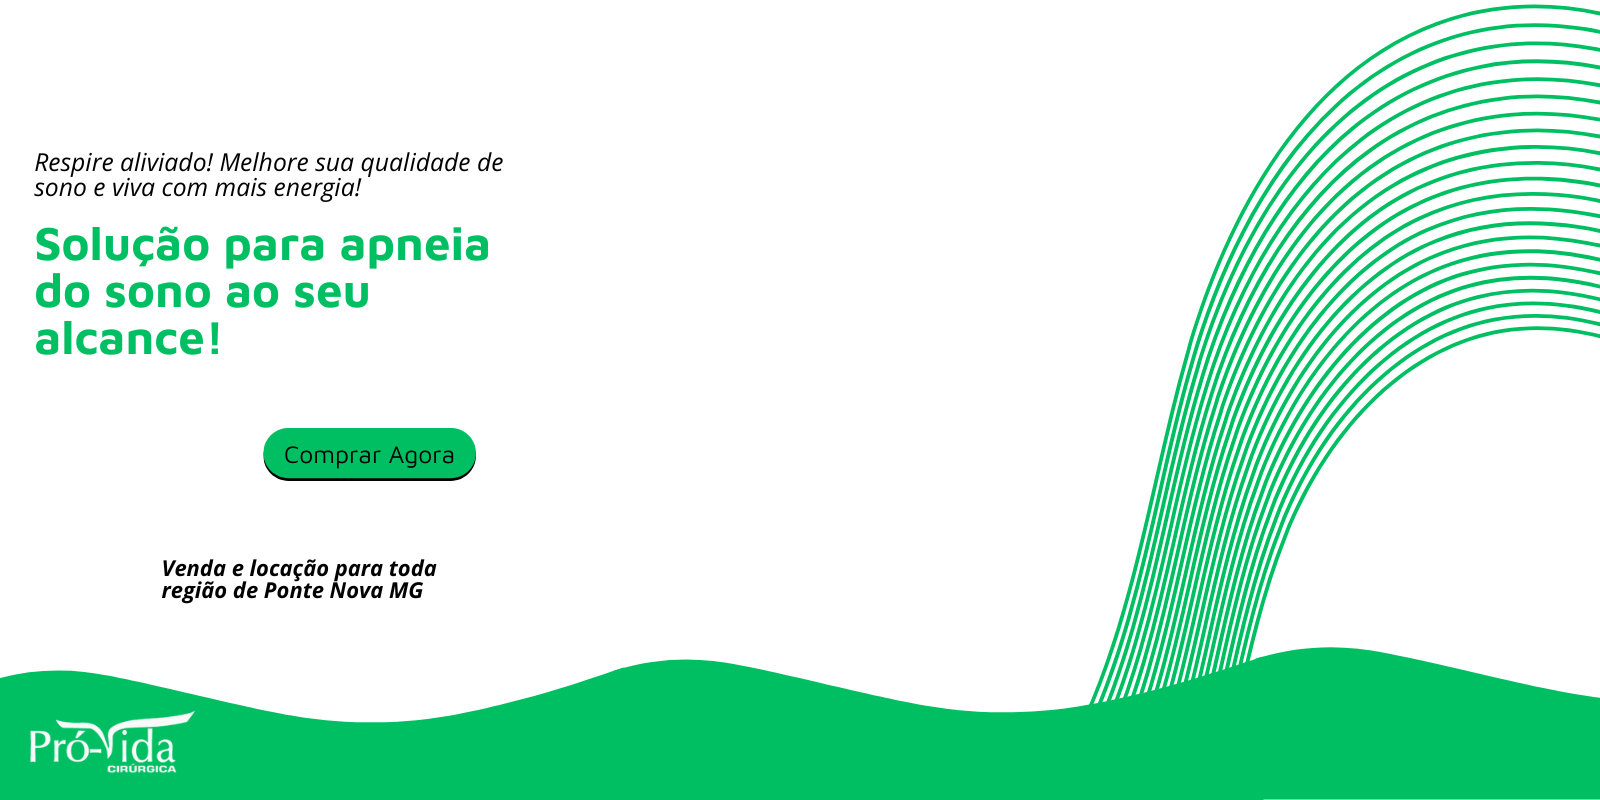
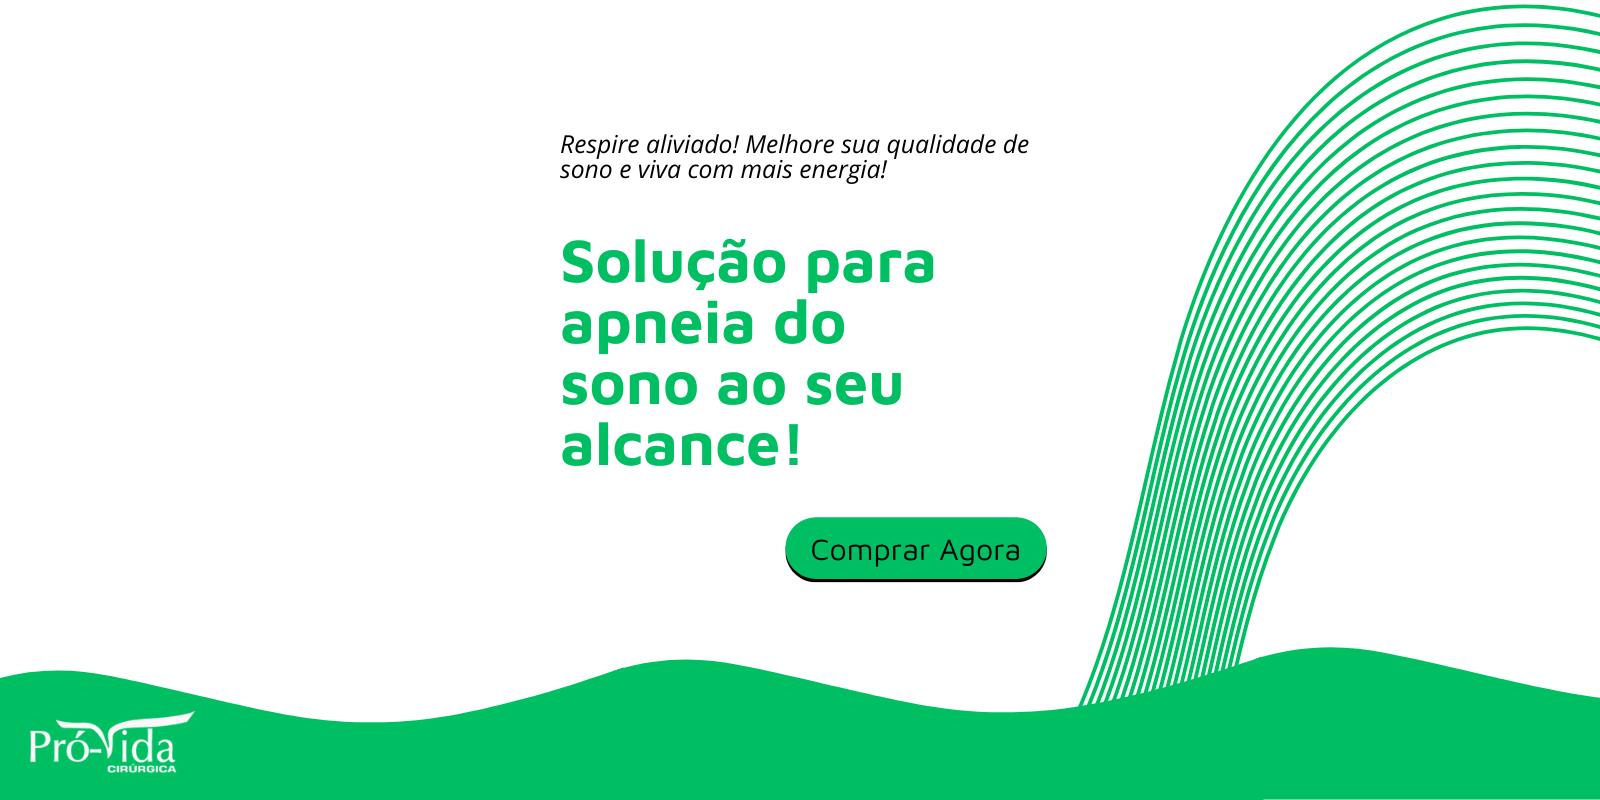
Update

diff --git a/front-end/src/index.css b/front-end/src/index.css
@@ -22,7 +22,7 @@ span.carousel-control-next-icon, span.carousel-control-prev-icon {
   .image-carousel-1 {
     height: 65vh;
     object-fit: cover;
-    object-position: center left;
+    object-position: center center;
   } 
 
   .image-carousel-2 {
